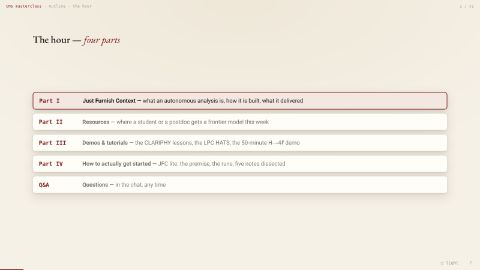
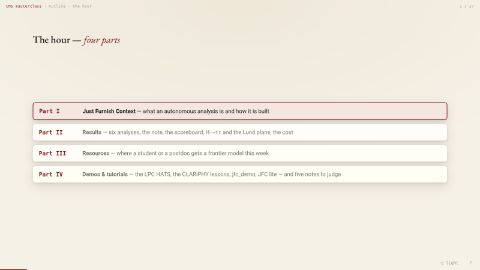
masterclass: no hands-on part — outline IV gone, JFC lite stays, prompt and datacard removed, runs to backup, exercise stripped to the plots, CMS slide without its second step
Four parts: JFC, results, resources, demos & tutorials (now also JFC lite, the five notes narrated live, the CMS
conventions). The exercise keeps its four builds with minimal text: the plots, the injected truth, the names, the tells.
27 scenes, 26:35. README, thumbnails and PDF regenerated.

Assisted-by: claude-code:claude-fable-5-1

Changed region(s): [[0.0625, 0.3259, 0.9375, 0.7111]]

diff --git a/index.html b/index.html
@@ -1584,8 +1584,7 @@ const MC_ROWS = [   // [key, label, what] — text is editable in layout-edit mo
   ['jfc',     'Part I',   '<b>Just Furnish Context</b> — what an autonomous analysis is and how it is built'],
   ['results', 'Part II',  '<b>Results</b> — six analyses, the note, the scoreboard, H→ττ and the Lund plane, the cost'],
   ['res',     'Part III', '<b>Resources</b> — where a student or a postdoc gets a frontier model this week'],
-  ['tut',     'Part IV',  '<b>Demos &amp; tutorials</b> — the CLARIPHY lessons, the LPC HATS, the 50-minute H→4ℓ demo'],
-  ['start',   'Part V',   '<b>How to actually get started</b> — JFC lite: the premise, the runs, five notes dissected'],
+  ['tut',     'Part IV',  '<b>Demos &amp; tutorials</b> — the LPC HATS, the CLARIPHY lessons, jfc_demo, JFC lite — and five notes to judge'],
 ];
 const mcOutline = (hl, kicker, lead = '') => `
   <h2 class="kicker">${kicker}</h2>
@@ -1623,7 +1622,7 @@ SCENES.push(
     </div>
   </div>`
 },
-mcOutlineScene('m-outline', 'jfc', 'The hour — <em>five parts</em>', '',
+mcOutlineScene('m-outline', 'jfc', 'The hour — <em>four parts</em>', '',
   'The map. Four parts, each opened by this slide with the part lit. Say the shape once: what it is (I), how you get a model (II), how you learn it (III), how you start (IV). Then straight into the anatomy.'),
 mcOutlineScene('m-outline-r', 'results', 'Part II — <em>results</em>', '',
   'Ping back to the map. The run is still docked beside Part II.'),
@@ -1631,8 +1630,6 @@ mcOutlineScene('m-outline-2', 'res', 'Part III — <em>resources</em>', '',
   'Ping back to the map. Pause here for chat questions on Part I before moving on.'),
 mcOutlineScene('m-outline-3', 'tut', 'Part IV — <em>demos &amp; tutorials</em>', '',
   'Ping back to the map.'),
-mcOutlineScene('m-outline-4', 'start', 'Part V — <em>how to actually get started</em>', '',
-  'Ping back to the map. Pause for chat questions. Part IV is the masterclass proper: the premise, the prompt, the runs, the five notes, the datacard, the homework.'),
 
 cloneScene('claim', { id: 'm-claim', act: 7, budget: 40, notes: 'the paper title IS the claim; the ALEPH recording is ours, it plays beside the slides from the next scene on, through Part I. The policy line pre-empts the question that otherwise comes at minute 3: everything ran on public data; the internal-data answer is "check" (m-policy backup).' },
   h => h.replace(`So rather than only telling you — let's <span class="hl">test</span> it, together.<br>Yours are running now. Here is ours — recorded, start to finish.`,
@@ -1699,7 +1696,7 @@ cloneScene('demo', { id: 'm-demo', thumb: 'assets/ovthumb_m-demo.jpg', act: 7, l
 /* ---- Part IV · how to actually get started ---- */
 { id: 'm-lite', thumb: 'assets/ovthumb_m-lite.jpg', act: 7, label: 'JFC lite — the premise', steps: 1, budget: 90, theme: 'dark',
   notes: 'THE PREMISE. Phil Harris\' jfc_lite branch: the same spec, thinned (2-bot strategy, self-checked exploration, 1-bot selection, 1 bot + bib at expected and 10 %, the human gate, 1-bot full data, 2-bot note; the paper runs 4- and 5-bot reviews). One problem: H→ZZ*→4ℓ on 10 fb⁻¹ of 2017 Open Data — the prompt, the ntuplizer, the two papers it cites, 857 MiB of ntuples. Two paths from one folder: rogue (the prompt and the papers, nothing else) and spec (the same, scaffolded into the lite framework). One line to launch, on a subscription or on NRP\'s endpoint. Same model, same prompt, same data — the only variable is the spec; that is the experiment. The prompt is the next slide.', html: () => `
-  <h2 class="kicker">How to actually get started — <em>JFC lite</em>, the premise</h2>
+  <h2 class="kicker"><em>JFC lite</em> — the premise</h2>
   <div class="cols" style="align-items:stretch; gap:2.4%">
     <div class="col" style="flex:1; min-width:0; display:flex; flex-direction:column; justify-content:center">
       <ul class="talk" style="font-size:clamp(13px,1.85vmin,22px)">
@@ -1735,38 +1732,7 @@ pixi install</pre>
     </div>
   </div>`
 },
-{ id: 'm-prompt', act: 7, label: 'The prompt', steps: 1, budget: 60, theme: 'dark',
-  notes: 'The one page behind every run in Part IV (h4l_agent_test/prompt.md, June 2026). What makes it good: a physics goal, three deliverables, the paper it follows, explicit scope (skip, focus, length), the inputs with cross sections and the luminosity. What is NOT in it: no cuts, no fit model, no answer — the technique is chosen in Phase 1 against the literature. Compare with a CMS AN skeleton: this is the abstract plus the samples table.', html: () => `
-  <h2 class="kicker">The prompt — <em>one page</em>, and what makes it good</h2>
-  <div class="cols" style="align-items:stretch; gap:2.4%">
-    <div class="col" style="flex:1.25; min-width:0; display:flex; flex-direction:column; justify-content:center">
-      <div class="codeblock">
-        <div class="src"><b>h4l_agent_test/prompt.md</b> — the whole input to every run, abridged</div>
-        <pre style="font-size:clamp(9px,1.3vmin,15px)"><span class="c"># H→4ℓ mass measurement with CMS Open Data</span>
-<span class="hl2">Physics goal:</span> H → ZZ* → 4ℓ (4e, 4μ, 2e2μ) in 2017 Open Data, √s = 13 TeV.
-<span class="hl2">Deliverables:</span> (1) the 4ℓ mass distribution on top of SM backgrounds,
- (2) a fit of the mass and the signal strength μ, (3) code that reproduces both.
-Loosely follows JHEP 11 (2017) 047, arXiv:1706.09936.
-<span class="hl2">Scope:</span> fakes from DY+jets MC only — no data-driven fake rate.
- SKIP lepton and trigger efficiency systematics. FOCUS on background
- normalisations. Keep exploration short; the note under 20 pages.
-<span class="hl2">Inputs:</span> flat ntuples from h4l_ntuplize.py over NanoAOD, in data/
- data_secret_10fb.root · ggH 0.00602 pb · VBF 0.000488 · ZH · WH± ·
- qqZZ 1.325 · DY 5396 · tt̄ 52.7 · ggZZ ×3 …  L = 10 fb⁻¹</pre>
-      </div>
-    </div>
-    <div class="col grow" style="min-width:0; display:flex; flex-direction:column; justify-content:center">
-      <ul class="talk" style="font-size:clamp(13px,1.85vmin,22px)">
-        <li><strong>A goal and three deliverables</strong>, not a method<small>what "done" means is written down before anything runs</small></li>
-        <li><strong>The paper it follows</strong> — one reference the agent must read first<small>the literature decides the technique, in Phase 1, defended against alternatives</small></li>
-        <li><strong>Scope, explicitly</strong>: what to skip, what to focus on, how long the note<small>the requester's judgment — the part that does not delegate</small></li>
-        <li><strong>The inputs, with numbers</strong>: files, cross sections, luminosity<small>nothing the agent could invent, so nothing it has to</small></li>
-        <li><strong>What is not in it</strong>: no cuts, no fit model, no expected answer<small>this is an AN abstract plus a samples table — you have written one</small></li>
-      </ul>
-    </div>
-  </div>`
-},
-{ id: 'm-runs', thumb: 'assets/ovthumb_m-runs.jpg', act: 7, label: 'The runs we performed', steps: 1, budget: 60, theme: 'dark',
+{ id: 'm-runs', thumb: 'assets/ovthumb_m-runs.jpg', act: 5, label: 'Backup · the runs we performed', steps: 1, budget: 0, theme: 'dark',
   notes: 'The run matrix, WITHOUT results — the results are the exercise. Phil Harris ran five to completion in May–June 2026 (h4l_agent_test/analysis_notes): rogue × {Opus 4.8, Sonnet 4.6}, spec × {Opus 4.8, Opus 4.8 low effort, Codex}. Then the rogue Opus second attempt (3 June: RooFit + Combine — the datacard slide). Our rehearsal on 14 Sep: rogue on GPT-6 Astra, 25 minutes, text only. The CLARIPHY room on 14 Sep: ~30 laptops, rogue path on NRP open weights — no tally kept; if you have one, say it here. Whether the June notes ran on jfc_lite or the full spec: confirm with Phil before saying "lite" out loud — the slide says "spec".', html: () => `
   <h2 class="kicker">The runs we performed — <em>same prompt, same sample</em>, different spec and model</h2>
   <div style="flex:1; display:flex; flex-direction:column; justify-content:center; gap:1.8vmin; min-height:0">
@@ -1786,69 +1752,30 @@ Loosely follows JHEP 11 (2017) 047, arXiv:1706.09936.
     <p class="lead" style="margin:0"><b>Five of these are complete notes</b> — their money plots follow, shuffled and unlabelled.</p>
   </div>`
 },
-{ id: 'm-exercise', thumb: 'assets/ovthumb_m-exercise.jpg', act: 7, size: 'roomy', label: 'Exercise · which would you sign?', steps: 4, budget: 240, theme: 'dark',
-  notes: 'THE EXERCISE, 4 steps, no poll (Zoom): 1: the five plots — pick one you would sign, or none; twenty seconds, say nothing. 2 REVEAL: mH = 129 GeV, μ = 1.8 injected; nobody was told; every run finds the bump. 3 NAMES: rogue = the prompt, the ntuplizer and the two cited papers, nothing else; spec = the same, scaffolded in. The rogue Opus run fit a 125 template and reported μ = 0.31; the spec\'d runs measured the mass and flagged the tension. Same model, prompt, data; only the spec differs. 4 THE TELLS: you could not tell from the plot — that is the point; the tells are in the notes and, written down, they are a reviewer spec (m-spec in the backups). Source: Phil Harris, h4l_agent_test/analysis_notes, June 2026.', html: () => `
-  <h2 class="kicker">Same prompt, same sample, five notes — <em>which would you sign?</em></h2>
+{ id: 'm-exercise', thumb: 'assets/ovthumb_m-exercise.jpg', act: 7, size: 'roomy', label: 'Five notes · which would you sign?', steps: 4, budget: 240, theme: 'dark',
+  notes: 'Narrated live. Step 1: five anonymised money plots, same prompt, same 10 fb⁻¹ sample. Step 2 REVEAL: mH = 129 GeV, μ = 1.8 injected — nobody was told. Step 3 NAMES on the tags: rogue = the prompt, the ntuplizer and the two cited papers, nothing else; JFC = the same, scaffolded into the spec. The rogue Opus run fit a 125 template and reported μ = 0.31; the spec\'d runs measured the mass and flagged the tension. Step 4 THE TELLS: none of it is visible in the plot; all of it is in the note — the questions an ARC asks. Source: Phil Harris, h4l_agent_test/analysis_notes, June 2026. CMS 2016: 125.26 ± 0.21 GeV, μ = 1.05.', html: () => `
+  <h2 class="kicker">Five notes, one prompt, one sample — <em>which would you sign?</em></h2>
   <div class="tg-wall" style="justify-content:flex-start; gap:1.6vmin">
-    <p class="lead" style="margin:0">You are the ARC. Each plot is the money plot of a complete, agent-written note — same prompt, same 10 fb⁻¹ sample, shuffled. <b>Which would you sign?</b></p>
     <div class="snapwall">
       ${H4L.map((n, i) => `<div class="polaroid" style="transform:rotate(${ROT[i]}deg)"><div class="fig zoomable auto"><img src="assets/h4l_notes/${n.f}.png" alt="${n.who} — four-lepton mass"></div>
         <div class="tag"><span class="anon"><b>${n.anon}</b></span><span class="real" hidden><b style="color:${n.jfc ? 'var(--green)' : 'var(--live)'}">${n.who}</b><br>${n.res}</span></div></div>`).join('\n      ')}
     </div>
-    <div class="mstate reveal" data-step="2"><div class="big" style="font-size:clamp(20px,3.4vmin,44px)">The sample was built with m<sub>H</sub> = 129 GeV, μ = 1.8 <em>injected</em> — nobody was told.</div>
-      <div class="sub">Every run finds the bump. The question was never the number; it is whether the note <b>says so</b>, and whether you could tell from the note alone.</div></div>
-    <p class="lead reveal tg-names" data-step="3" style="margin:0"><b style="color:var(--live)">rogue</b> = the prompt, the ntuplizer and the two cited papers, nothing else · <b style="color:var(--green)">JFC</b> = the same, scaffolded into the spec. The rogue Opus run fit a 125 GeV template and reported μ = 0.31; the spec'd runs measured the mass and flagged the tension. <b>Same model, same prompt, same data; the only difference is the spec.</b> Judge the process, not the number.</p>
+    <div class="mstate reveal" data-step="2"><div class="big" style="font-size:clamp(20px,3.4vmin,44px)">m<sub>H</sub> = 129 GeV, μ = 1.8 — <em>injected</em>.</div></div>
+    <p class="lead reveal tg-names" data-step="3" style="margin:0"><b style="color:var(--live)">rogue</b> — the prompt and the papers, nothing else · <b style="color:var(--green)">JFC</b> — the same, plus the spec.</p>
     <div class="reveal" data-step="4">
-      <div class="verdicts" style="margin:0 0 1vmin; flex-wrap:wrap; font-size:clamp(11px,1.6vmin,19px)">
-        <span style="color:var(--green); border-color:var(--green)">peak where the fit says, not where the template says</span>
-        <span style="color:var(--green); border-color:var(--green)">an uncertainty you believe — μ = 40 or χ² ≡ 0 is an alarm</span>
-        <span style="color:var(--green); border-color:var(--green)">backgrounds scaled to the luminosity in the prompt</span>
-        <span style="color:var(--green); border-color:var(--green)">the tension stated, not discovered by you</span>
+      <div class="verdicts" style="margin:0; flex-wrap:wrap; font-size:clamp(11px,1.6vmin,19px)">
+        <span style="color:var(--green); border-color:var(--green)">peak where the fit says</span>
+        <span style="color:var(--green); border-color:var(--green)">an uncertainty you believe</span>
+        <span style="color:var(--green); border-color:var(--green)">backgrounds at the luminosity in the prompt</span>
+        <span style="color:var(--green); border-color:var(--green)">the tension stated</span>
         <span style="color:var(--green); border-color:var(--green)">rerunnable from the folder</span></div>
-      <p class="lead" style="margin:0"><b>None of it is visible in the plot; all of it is in the note.</b> These are the questions an ARC asks — written down once, they are a reviewer spec.</p>
     </div>
-    <div class="figcap" style="text-align:left; margin:0">Money plots from Phil Harris' five reference notes, h4l_agent_test/analysis_notes, June 2026. The real world, CMS 2016: 125.26 ± 0.21 GeV, μ = 1.05.</div>
+    <div class="figcap" style="text-align:left; margin:0">Phil Harris, h4l_agent_test/analysis_notes, June 2026 · CMS 2016: 125.26 ± 0.21 GeV, μ = 1.05.</div>
   </div>`,
   onenter(step) { document.querySelectorAll('.scene .snapwall .anon').forEach(e => { e.hidden = step >= 3; });
-                  document.querySelectorAll('.scene .snapwall .real').forEach(e => { e.hidden = step < 3; });
-                  const n = document.querySelector('.scene .tg-names'); if (n) n.hidden = step >= 4;   // the names give way to the tells
-                  const r = document.querySelector('.scene .mstate.reveal'); if (r) r.hidden = step >= 4; }
+                  document.querySelectorAll('.scene .snapwall .real').forEach(e => { e.hidden = step < 3; }); }
 },
-{ id: 'm-combine', thumb: 'assets/ovthumb_m-combine.jpg', act: 7, label: 'Does it speak our tools?', steps: 1, budget: 45, theme: 'dark',
-  notes: 'The rogue Opus 4.8 second attempt on the same synthetic sample (3 June 2026): RooFit DSCB mass fit, then a Combine datacard it wrote — shapes, lnN, a rateParam for qqZZ from the sideband, autoMCStats — FitDiagnostics and Significance. Tools are not the problem: Combine, RooFit, ROOT, mplhep are all in the training data. Group conventions are not.', html: () => `
-  <h2 class="kicker">Does it speak <em>our</em> tools? — a datacard it wrote</h2>
-  <div class="cols" style="align-items:stretch">
-    <div class="col" style="flex:1.05; display:flex; flex-direction:column; min-width:0; justify-content:center">
-      <div class="codeblock" style="flex:0 0 auto; overflow:hidden">
-        <div class="src"><b>outputs/datacard.txt</b> — the rogue Opus run's second attempt (B, 3 June 2026) · written, filled and fitted by the agent</div>
-        <pre style="font-size:clamp(9px,1.32vmin,15px)"><span class="c"># H->ZZ->4l signal-strength datacard (10/fb, m4l in [105,365])</span>
-imax 1   jmax 3   kmax *
-shapes * ch1 datacard_shapes.root $PROCESS $PROCESS_$SYSTEMATIC
-bin          ch1
-observation  185
-bin          ch1        ch1        ch1        ch1
-process      signal     qqZZ       ggZZ       zjets
-process      0          1          2          3
-rate         7.0892   198.3542  38.2065   7.1278
-lumi_13TeV   lnN  1.023      -          1.023      1.023
-ggZZ_norm    lnN  -          -          1.30       -
-zjets_norm   lnN  -          -          -          1.40
-<span class="c"># qqZZ irreducible background normalization measured in-situ from the sideband</span>
-<span class="hl2">qqZZ_scale   rateParam ch1 qqZZ 1 [0.2,3.0]</span>
-* autoMCStats 0 1 1</pre>
-      </div>
-    </div>
-    <div class="col" style="flex:1; display:flex; flex-direction:column; gap:1.4vmin; min-width:0; justify-content:center">
-      <div class="fig zoomable" style="flex:0 0 auto; height:56%"><img src="assets/cdemo_postfit_m4l.png" alt="post-fit four-lepton mass, 70–170 GeV, agent-run Combine fit"></div>
-      <div class="figcap" style="margin:-.6vmin 0 0">post-fit m<sub>4ℓ</sub>, 70–170 GeV window for the plot · the μ fit runs on 105–365 GeV, as the datacard says</div>
-      <ul class="talk" style="font-size:clamp(12px,1.7vmin,20px)">
-        <li><span class="mono">m<sub>H</sub> = 129.2 ± 0.5 GeV</span> — RooFit double-sided Crystal Ball, resolution from MC<small>μ = 1.55 <sup>+0.63</sup><sub>−0.53</sub> · 3.8σ · qqZZ floated to 0.64 from the m<sub>4ℓ</sub> &gt; 140 GeV sideband</small></li>
-        <li><strong>Tools are in the training data; conventions and process are not.</strong> Even the run with no spec speaks Combine, RooFit, ROOT, mplhep, pixi<small>the difference between B and E was the spec, not the toolchain</small></li>
-      </ul>
-    </div>
-  </div>`
-},
-{ id: 'm-cms', thumb: 'assets/ovthumb_m-cms.jpg', act: 7, label: 'Furnishing context for a CMS analysis', steps: 2, budget: 150, theme: 'dark',
+{ id: 'm-cms', thumb: 'assets/ovthumb_m-cms.jpg', act: 7, label: 'Furnishing context for a CMS analysis', steps: 1, budget: 120, theme: 'dark',
   notes: 'THE HOMEWORK. JFC asks for three folders; a CMS group already owns all three, just not written down in one place. methodology = the AN skeleton + CADI workflow + your PAG pre-approval checklist + the unblinding policy. conventions = pub-comm guidelines, POG object recommendations and SFs, NanoAOD field names, your plot style, Combine datacard habits. agents = the ARC questions you always get, written down as reviewers; the gate = pre-approval/unblinding, never opened by the agent. Right: a conventions file that fits on a slide — illustrative, say so. Step 2: what stays yours.', html: () => `
   <h2 class="kicker">Furnishing context for a <em>CMS</em> analysis — you already own most of it</h2>
   <div class="cols" style="align-items:stretch; gap:2.4%">
@@ -1883,15 +1810,6 @@ zjets_norm   lnN  -          -          -          1.40
 - report the impacts; a pull &gt; 1σ needs a sentence</pre>
       </div>
       <p class="lead" style="margin:0; font-size:clamp(12px,1.65vmin,19px)">Twelve lines, written the way you would brief a new student.</p>
-    </div>
-  </div>
-  <div data-step="2" style="margin-top:1.4vmin">
-    <div class="funhdr" style="margin-bottom:.8vmin"><b style="color:var(--live)">still yours</b> — the job description, not a bug list</div>
-    <div class="cardgrid" style="grid-template-columns:repeat(4,1fr)">
-      <div class="kcard dim" style="border-left-color:var(--live)"><div class="nm" style="color:var(--live)">the question</div><div class="ds">choosing the measurement worth doing</div></div>
-      <div class="kcard dim" style="border-left-color:var(--live)"><div class="nm" style="color:var(--live)">the technique</div><div class="ds">the tagger, the trigger, the method nobody has yet</div></div>
-      <div class="kcard dim" style="border-left-color:var(--live)"><div class="nm" style="color:var(--live)">the collaboration</div><div class="ds">approval, committees, authorship — the process is people</div></div>
-      <div class="kcard dim" style="border-left-color:var(--live)"><div class="nm" style="color:var(--live)">the signature</div><div class="ds">reading the note as if you were going to sign it — because you are</div></div>
     </div>
   </div>`
 },
@@ -2160,8 +2078,7 @@ const MASTERCLASS = ['m-title', 'm-outline',
   'anatomy', 'm-claim', 'm-launch', 'framework', 'context', 'phases', 'review', 'gate',
   'm-outline-r', 'm-menu', 'deliverable', 'm-scoreboard', 'htautau', 'lund', 'm-cost',
   'm-outline-2', 'm-resources',
-  'm-outline-3', 'm-tutorials', 'm-demo',
-  'm-outline-4', 'm-lite', 'm-prompt', 'm-runs', 'm-exercise', 'm-combine', 'm-cms',
+  'm-outline-3', 'm-tutorials', 'm-demo', 'm-lite', 'm-exercise', 'm-cms',
   'm-finale', 'm-close'];
 /* the replay is docked wherever the source scene docks it (all of Part I); Parts II–IV run without it, the finale brings it back wide */
 const TERM_OVERRIDE = new URLSearchParams(location.search).get('profile') === 'masterclass' ? { 'm-demo': null } : {};

diff --git a/README.md b/README.md
@@ -1,19 +1,20 @@
 # JFC talk — HSF DAAA · Agentic AI in HEP data analysis · 27 July 2026
 
 **Branch `cms-masterclass-2026-09-22`** — the CMS internal masterclass cut (Tue 22 Sep 2026, one hour on Zoom, students and
-postdocs). `?profile=masterclass&nolayout` (31 scenes, 30:10 of budget, the rest for questions; light theme by default; no polls; the flow follows the
-keep-list order, not the array; `nolayout` ignores layout-editor overrides stored in the browser) = title (the paper title as subtitle, the Lund plane) → **the outline** (`m-outline`, pinged back to at the head of every part
-with that part lit) → **Part I** the regular JFC slides with the ALEPH replay docked beside every one (anatomy → claim → ignition →
-framework → context → phases → review → gate; hovering a reviewer card on `review` pops up its prompt) → **Part II** results
-(menu with "why LEP" → deliverable → scoreboard → H→ττ → Lund → cost, still docked) → **Part III** resources, lifted from the CLARIPHY tutorial (`m-resources`) → **Part IV** demos &
-tutorials (`m-tutorials`: the CLARIPHY lessons, the LPC HATS, jfc_demo, the receipts; `m-demo`) → **Part V** how to actually get
-started (`m-lite`: Phil Harris' `jfc_lite` branch, rogue vs spec from one folder, one line to launch; `m-prompt`; `m-runs`: the
-run matrix without results; `m-exercise`: the five anonymised H→4ℓ notes, the injected truth, the names, the tells; `m-combine`:
-the datacard; `m-cms`: furnishing context for a CMS analysis, illustrative twelve lines) → the run finished → the homework.
-Backups (act 5, in the overview): `m-honest`, `m-policy`, `m-spec`, `m-warstories`, `m-moments`, `m-ladder`, `m-cold` → the wall
-(`assets/wall/wall.html`, returns to `m-future`), `m-future`. Masterclass scenes are act 7 (`AX[7]`) in one block after
-`SCENES`; shared scenes are cloned with text patches (`cloneScene`). `node tools/shot.mjs masterclass <outdir>` screenshots every
-scene/step; `node tools/pdf.mjs masterclass <out.pdf>` prints the cut (Playwright + pdfunite + gs; needs `python3 -m http.server 8123`).
+postdocs). `?profile=masterclass` (27 scenes, 26:35 of budget, the rest for questions; light theme by default; no polls; the flow
+follows the keep-list order, not the array) = title (the paper title as subtitle, the Lund plane) → **the outline** (`m-outline`,
+pinged back to at the head of every part with that part lit) → **Part I** the regular JFC slides with the ALEPH replay docked
+beside every one (anatomy → claim → ignition → framework → context → phases → review → gate; hovering a reviewer card on `review`
+pops up its prompt) → **Part II** results (menu with "why LEP" → deliverable → scoreboard → H→ττ → Lund → cost, still docked)
+→ **Part III** resources, lifted from the CLARIPHY tutorial (`m-resources`) → **Part IV** demos & tutorials (`m-tutorials`: the
+LPC HATS, the CLARIPHY lessons, jfc_demo, the jfc-mit.github.io pointers; `m-demo`; `m-lite`: Phil Harris' `jfc_lite` branch,
+rogue vs spec from one folder, one line to launch; `m-exercise`: the five anonymised H→4ℓ notes, narrated live — the injected
+truth, the names, the tells; `m-cms`: furnishing context for a CMS analysis, illustrative twelve lines) → the run finished →
+the homework. Backups (act 5, in the overview): `m-runs`, `m-honest`, `m-policy`, `m-spec`, `m-warstories`, `m-moments`,
+`m-ladder`, `m-cold` → the wall (`assets/wall/wall.html`, returns to `m-future`), `m-future`. Masterclass scenes are act 7
+(`AX[7]`) in one block after `SCENES`; shared scenes are cloned with text patches (`cloneScene`). `node tools/shot.mjs
+masterclass <outdir>` screenshots every scene/step; `node tools/pdf.mjs masterclass <out.pdf> light` prints the cut (Playwright +
+pdfunite + gs; needs `python3 -m http.server 8123`).
 
 **Branch `clariphy-tutorial-2026-09-14`** — the CLARIPHY tutorial cut (Mon 14 Sep 2026, *AI agents and LLMs for Scientific
 Discovery*, with Daniel Diaz; site: training.nrp-nautilus.io/clariphy). `?profile=tutorial` (~18 min of budget, 20 scenes) is
